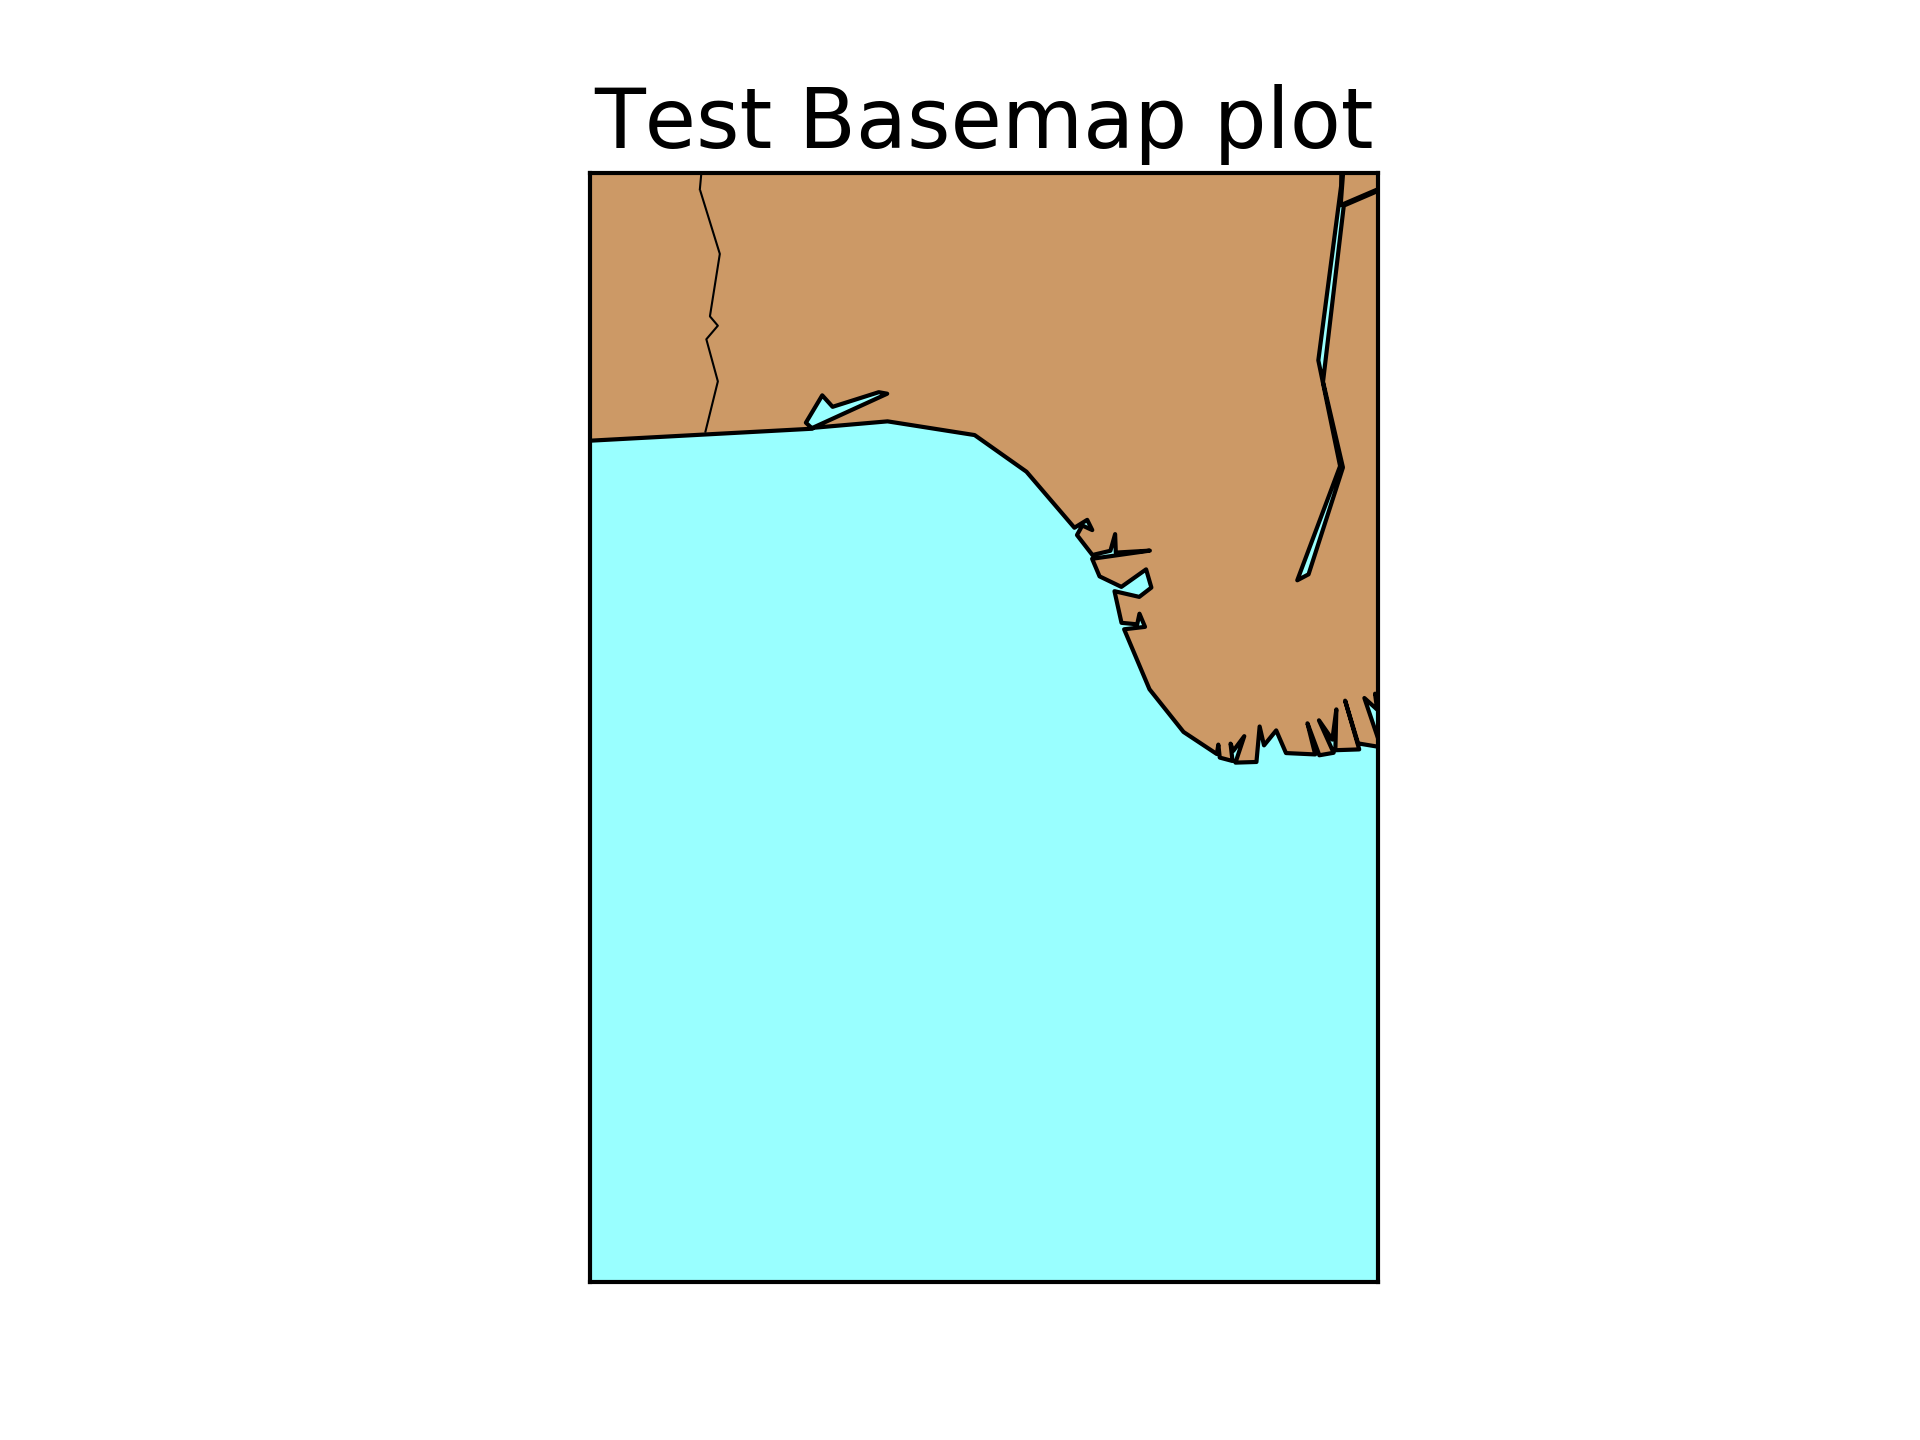
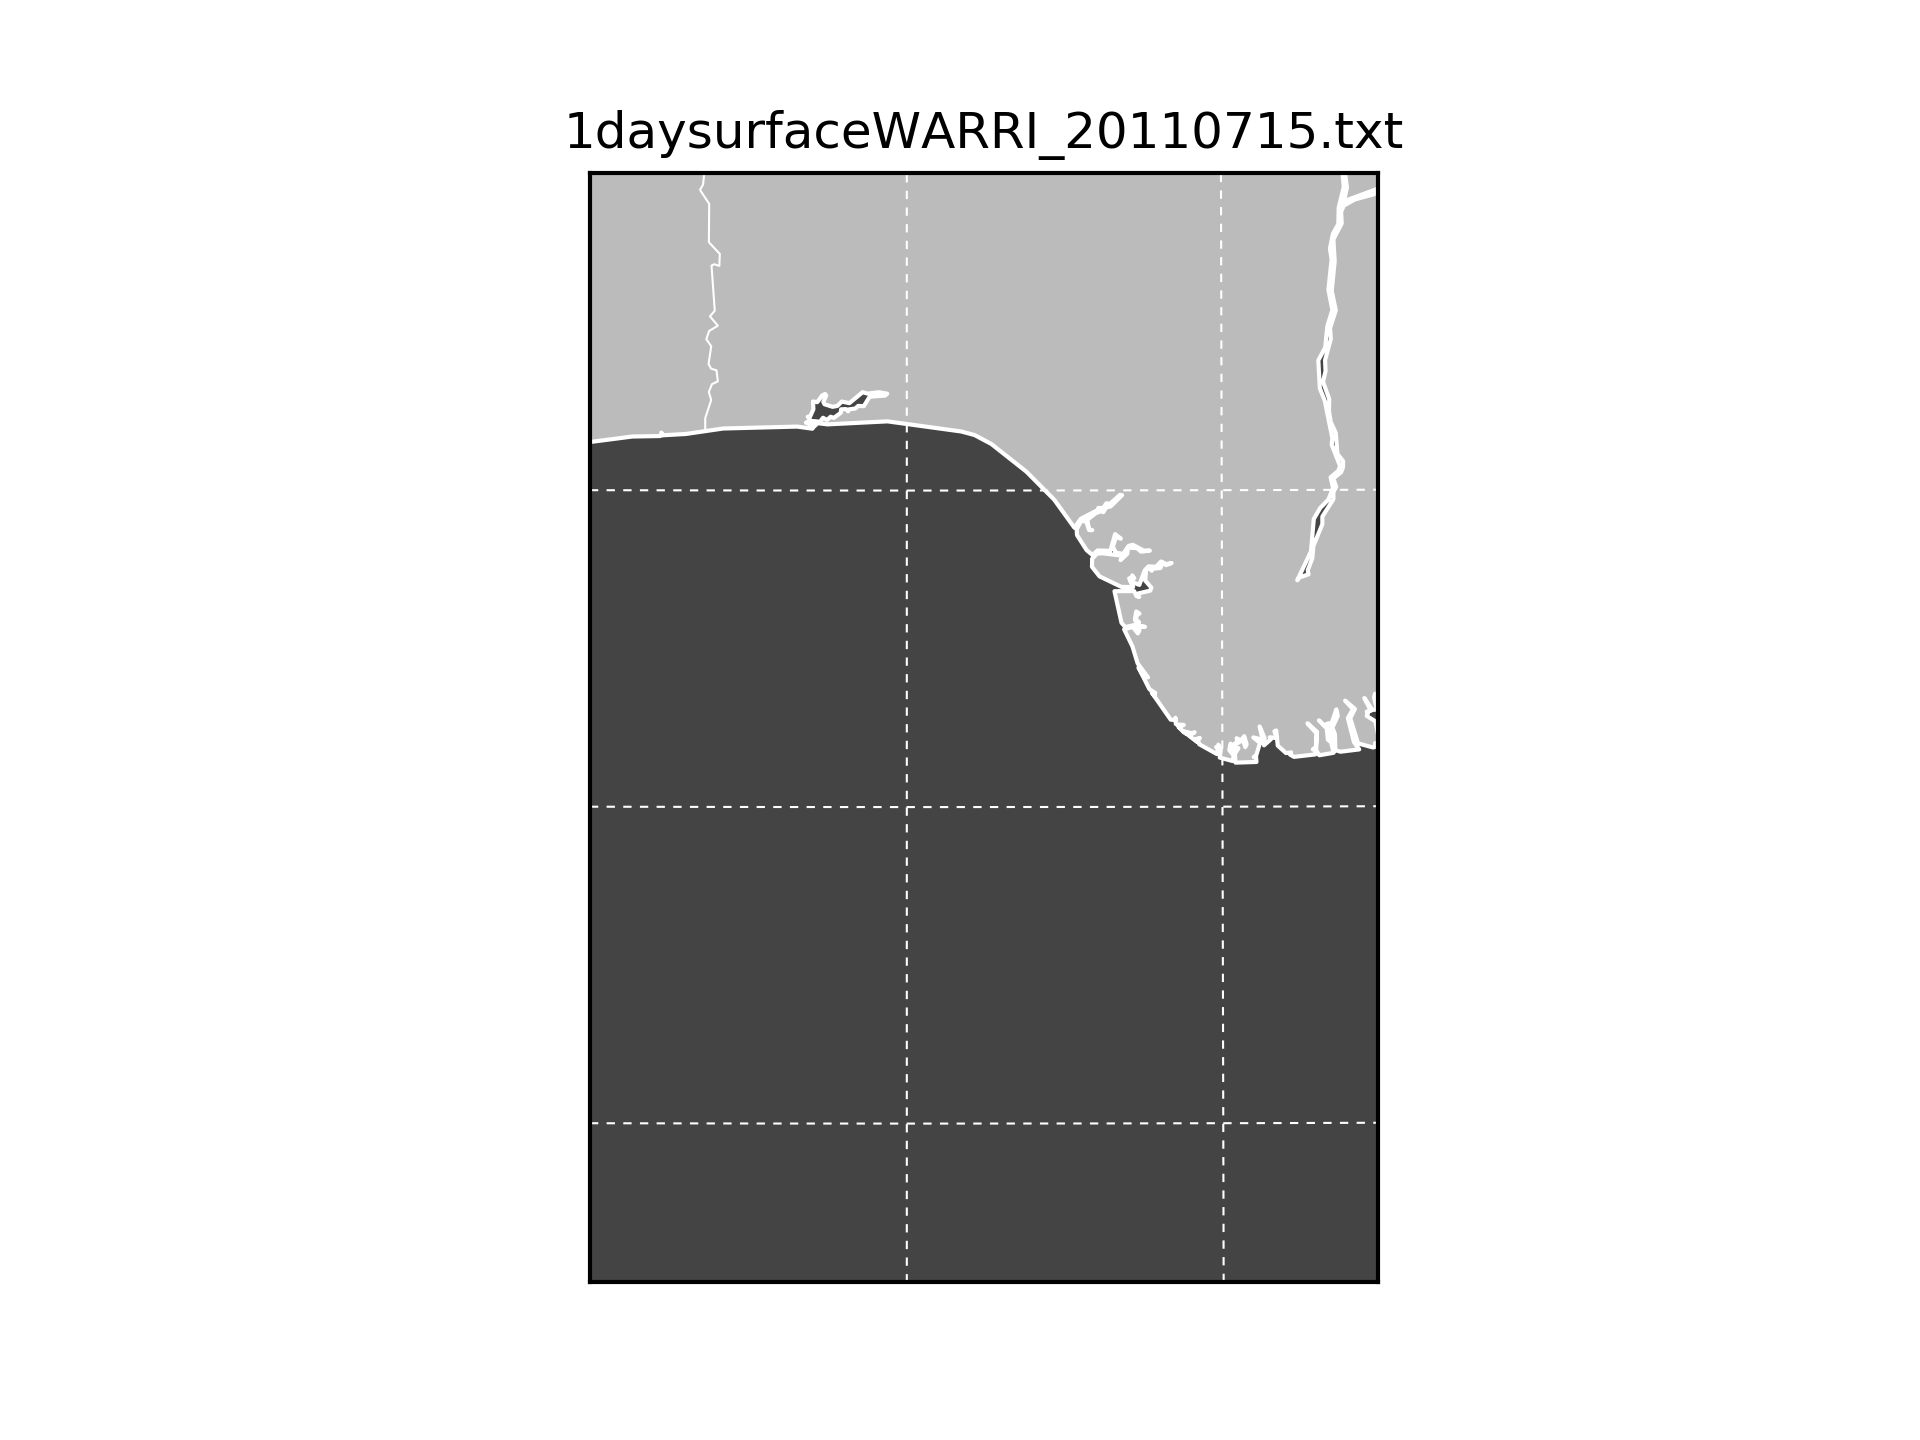
Updating plotting params

diff --git a/plot_test.py b/plot_test.py
@@ -4,9 +4,16 @@ from mpl_toolkits.basemap import Basemap
 import matplotlib
 matplotlib.use('Agg')
 import matplotlib.pyplot as plt
+import warnings
+warnings.filterwarnings("ignore")
+
+title = '1daysurfaceWARRI_20110715.txt'
 
 lon_bounds = [ 2., 7. ]
 lat_bounds = [ 1., 8. ]
+
+lon_axis = [4., 6.]
+lat_axis = [2., 4., 6.]
 
 fig, ax = plt.subplots()
 
@@ -15,14 +22,16 @@ ax.set_aspect('equal')
 m = Basemap(llcrnrlon=lon_bounds[0], llcrnrlat=lat_bounds[0],
             urcrnrlon=lon_bounds[1], urcrnrlat=lat_bounds[1],
             projection='lcc', lat_1=2., lat_2=6., lon_0=4.,
-            resolution='l', area_thresh=1000.)
+            resolution='i', area_thresh=1000.)
 
-m.drawcoastlines()
-m.drawcountries()
-m.drawmapboundary(fill_color='#99ffff')
-m.fillcontinents(color='#cc9966',lake_color='#99ffff')
+m.drawcoastlines(color='white')
+m.drawcountries(color='white')
+m.drawmapboundary(fill_color='#444444')
+m.fillcontinents(color='#bbbbbb',lake_color='#444444')
+m.drawparallels(lat_axis, linewidth=0.5, color='white')
+m.drawmeridians(lon_axis, linewidth=0.5, color='white')
 
-ax.set_title('Test Basemap plot', fontsize=20)
+ax.set_title(title, fontsize=12)
 
 pngfile = 'plot_test.png'
 fig.savefig(pngfile, dpi=300)
